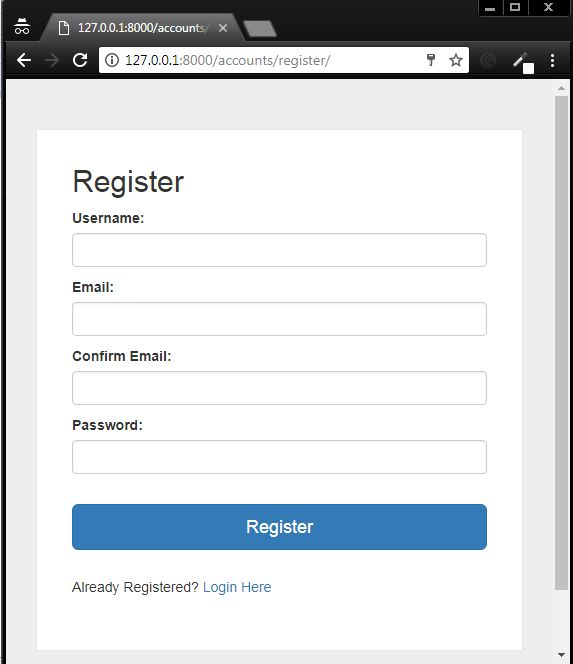
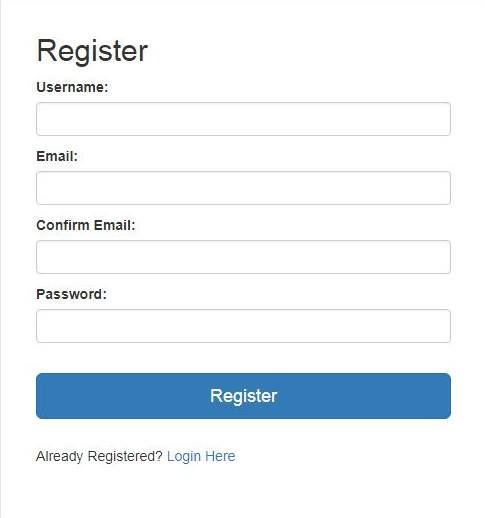
hr added

diff --git a/learn/set-up-authentication-system-in-django-in-just-10-minutes/index.html b/learn/set-up-authentication-system-in-django-in-just-10-minutes/index.html
@@ -95,9 +95,10 @@
     <div class = "col-md-9">
 <img class = "img-fluid" alt="" src="/img/set-up-authentication-system-in-django-in-just-10-minutes/cover.jpg" title="" srcset="/assets/resized/480/cover.jpg 480w,/assets/resized/800/cover.jpg 800w,/img/set-up-authentication-system-in-django-in-just-10-minutes/cover.jpg 1240w">
 
+	<br />
     <h1 class="post-title">Set-up Authentication System in Django in just 10 minutes</h1>
     <h6 class = "post-spans">Posted: 03 October 2017 | Post By: Jai Singhal | 1k <i class = "fa fa-eye"></i>  | <i class = "fa fa-clock"></i> 11 min read | 15 <i class = "fa fa-comment"></i> </h6>
-    <br />
+    <hr />
     <div class = "post-content"> <p>Authentication is something which needs to be implemented on each and every website. And with Django, it is very simple and easy to implement because we don’t need to make the Authentication system from scratch, it is already made by the Django, we need to simply use it.</p>
 
 <h2 id="introduction">Introduction</h2>
@@ -409,7 +410,7 @@ body {
 
 <p>If you have followed the exact tutorial, you will have this kind of output for Login Page</p>
 
-<p><img class="img-fluid" alt="" src="/img/set-up-authentication-system-in-django-in-just-10-minutes/login.jpg" title="" srcset="/assets/resized/480/login.jpg 480w,/img/set-up-authentication-system-in-django-in-just-10-minutes/login.jpg 573w" /></p>
+<p><img class="img-fluid" alt="" src="/img/set-up-authentication-system-in-django-in-just-10-minutes/login.jpg" title="" srcset="/assets/resized/480/login.jpg 480w,/img/set-up-authentication-system-in-django-in-just-10-minutes/login.jpg 503w" /></p>
 
 <h2 id="register">Register</h2>
 <p>After creating the Login View, let’s create the register view.</p>
@@ -513,7 +514,7 @@ body {
 <span class="p">]</span>
  </code></pre></figure>
 
-<p><img class="img-fluid" alt="" src="/img/set-up-authentication-system-in-django-in-just-10-minutes/register.jpg" title="" srcset="/assets/resized/480/register.jpg 480w,/img/set-up-authentication-system-in-django-in-just-10-minutes/register.jpg 573w" /></p>
+<p><img class="img-fluid" alt="" src="/img/set-up-authentication-system-in-django-in-just-10-minutes/register.jpg" title="" srcset="/assets/resized/480/register.jpg 480w,/img/set-up-authentication-system-in-django-in-just-10-minutes/register.jpg 485w" /></p>
 
 <h2 id="logout">Logout</h2>
 <p>Now let’s create our last view i.e., logout view. This is very simple view and very straightforward.</p>

diff --git a/how-to/pagination-with-django.html b/how-to/pagination-with-django.html
@@ -95,9 +95,10 @@
     <div class = "col-md-9">
 <img class = "img-fluid" alt="" src="/img/introduction-to-django/code-pc-sublime-img.jpg" title="" srcset="/assets/resized/480/code-pc-sublime-img.jpg 480w,/assets/resized/800/code-pc-sublime-img.jpg 800w,/img/introduction-to-django/code-pc-sublime-img.jpg 940w">
 
+	<br />
     <h1 class="post-title">Pagination with Django</h1>
     <h6 class = "post-spans">Posted: 31 May 2017 | Post By: Jai Singhal | 1k <i class = "fa fa-eye"></i>  | <i class = "fa fa-clock"></i> 8 min read | 15 <i class = "fa fa-comment"></i> </h6>
-    <br />
+    <hr />
     <div class = "post-content"> <p>You may have come across a problem of displaying many objects in a single page. Pagination allows you to divide the objects into discrete pages. It is very difficult to show up all the objects in a single page. For example, if you are running a blog website, when you want to list all the post, it is better to divide the posts into pages.</p>
 
 <p>Django provides a few classes that can help you to manage your paginated data i.e., data that are split across several pages, with “Previous/Next” links or list it into discrete page numbers. You can use the Django Pagination by including the class that lives in django/core/paginator.py</p>

diff --git a/jekyll-update/welcome-to-jekyll/index.html b/jekyll-update/welcome-to-jekyll/index.html
@@ -95,9 +95,10 @@
     <div class = "col-md-9">
 <img class = "img-fluid" alt="" src="/img/post1.jpg" title="" srcset="/assets/resized/480/post1.jpg 480w,/assets/resized/800/post1.jpg 800w,/assets/resized/1400/post1.jpg 1400w,/img/post1.jpg 1920w">
 
+	<br />
     <h1 class="post-title">Welcome to Jekyll!</h1>
     <h6 class = "post-spans">Posted: 01 February 2018 | Post By: Jai Singhal | 1k <i class = "fa fa-eye"></i>  | <i class = "fa fa-clock"></i> 2 min read | 15 <i class = "fa fa-comment"></i> </h6>
-    <br />
+    <hr />
     <div class = "post-content"> <p>You’ll find this post in your <code class="highlighter-rouge">_posts</code> directory. Go ahead and edit it and re-build the site to see your changes. You can rebuild the site in many different ways, but the most common way is to run <code class="highlighter-rouge">jekyll serve</code>, which launches a web server and auto-regenerates your site when a file is updated.</p>
 
 <p>To add new posts, simply add a file in the <code class="highlighter-rouge">_posts</code> directory that follows the convention <code class="highlighter-rouge">YYYY-MM-DD-name-of-post.ext</code> and includes the necessary front matter. Take a look at the source for this post to get an idea about how it works.</p>

diff --git a/learn/introduction-to-django/index.html b/learn/introduction-to-django/index.html
@@ -95,9 +95,10 @@
     <div class = "col-md-9">
 <img class = "img-fluid" alt="" src="/img/introduction-to-django/code-pc-sublime-img.jpg" title="" srcset="/assets/resized/480/code-pc-sublime-img.jpg 480w,/assets/resized/800/code-pc-sublime-img.jpg 800w,/img/introduction-to-django/code-pc-sublime-img.jpg 940w">
 
+	<br />
     <h1 class="post-title">Introduction to Django</h1>
     <h6 class = "post-spans">Posted: 08 May 2017 | Post By: Jai Singhal | 1k <i class = "fa fa-eye"></i>  | <i class = "fa fa-clock"></i> 5 min read | 15 <i class = "fa fa-comment"></i> </h6>
-    <br />
+    <hr />
     <div class = "post-content"> <p>Django (/ˈdʒæŋɡoʊ/ jang-goh) is a high-level Python Web Framework which is absolutely free and open source. Django encourages rapid development, clean and pragmatic design, it also emphasis on the principle of don’t repeat yourself, and reusability of code.</p>
 
 <p>Making your own website is an ambitious goal nowadays and one should choose a framework which is more robust, less time-consuming, secure website and Django serves the programmer to produce robust, secure and bug-free code quickly.</p>

diff --git a/package-of-week/categories-with-django-mptt/index.html b/package-of-week/categories-with-django-mptt/index.html
@@ -95,9 +95,10 @@
     <div class = "col-md-9">
 <img class = "img-fluid" alt="" src="/img/categories-with-django-mptt/cover.jpg" title="" srcset="/assets/resized/480/cover.jpg 480w,/assets/resized/800/cover.jpg 800w,/img/categories-with-django-mptt/cover.jpg 1240w">
 
+	<br />
     <h1 class="post-title">Categories with django-mptt</h1>
     <h6 class = "post-spans">Posted: 30 July 2017 | Post By: Karan Suthar | 1k <i class = "fa fa-eye"></i>  | <i class = "fa fa-clock"></i> 7 min read | 15 <i class = "fa fa-comment"></i> </h6>
-    <br />
+    <hr />
     <div class = "post-content"> <p>In this tutorial, we will learn how to implement categories and breadcrumb in a Django site. Categories may be related to each other as child-parent, so categories are hierarchical data and to store and access them efficiently mptt i.e modified preorder tree traversal should be used in which the number of database queries made is minimum. There are some referral links provided at the end of the article to understand how CRUD operations are applied on hierarchical data efficiently.</p>
 
 <h2 id="installation">Installation</h2>

diff --git a/learn/getting-started-with-django/index.html b/learn/getting-started-with-django/index.html
@@ -95,9 +95,10 @@
     <div class = "col-md-9">
 <img class = "img-fluid" alt="" src="/img/introduction-to-django/code-pc-sublime-img.jpg" title="" srcset="/assets/resized/480/code-pc-sublime-img.jpg 480w,/assets/resized/800/code-pc-sublime-img.jpg 800w,/img/introduction-to-django/code-pc-sublime-img.jpg 940w">
 
+	<br />
     <h1 class="post-title">Getting started with Django</h1>
     <h6 class = "post-spans">Posted: 20 May 2017 | Post By: Jai Singhal | 1k <i class = "fa fa-eye"></i>  | <i class = "fa fa-clock"></i> 4 min read | 15 <i class = "fa fa-comment"></i> </h6>
-    <br />
+    <hr />
     <div class = "post-content"> <p>After too much motivation, now it’s time to get started with Django. To develop your Django-powered site, you first need to install Python on your system. It is highly recommended to install the latest version of Python, and for those people who are using Python2, it is recommended to switch to Python3. You can easily download the latest version from here.</p>
 
 <p>If you are not familiar with Python, then you should need to brush up your basic knowledge of Python from here.</p>

diff --git a/how-to/reverse-engineering-of-the-django-admin-foreign-keys-addedit-button/index.html b/how-to/reverse-engineering-of-the-django-admin-foreign-keys-addedit-button/index.html
@@ -95,9 +95,10 @@
     <div class = "col-md-9">
 <img class = "img-fluid" alt="" src="/img/reverse-engineering-of-the-django-admin-foreign-keys-addedit-button/cover.jpg" title="" srcset="/assets/resized/480/cover.jpg 480w,/assets/resized/800/cover.jpg 800w,/img/reverse-engineering-of-the-django-admin-foreign-keys-addedit-button/cover.jpg 1240w">
 
+	<br />
     <h1 class="post-title">Reverse Engineering of the Django Admin Foreign Key's Add/Edit Button</h1>
     <h6 class = "post-spans">Posted: 07 July 2017 | Post By: Jai Singhal | 1k <i class = "fa fa-eye"></i>  | <i class = "fa fa-clock"></i> 7 min read | 15 <i class = "fa fa-comment"></i> </h6>
-    <br />
+    <hr />
     <div class = "post-content"> <h2 id="introduction">Introduction</h2>
 <p>In this tutorial, we will learn about how to add Django Admin’s Foreign key’s Add and Edit feature on Django form, so that we can easily add and edit the Foreign Key element in a pop-up window without refreshing the same page. This can be done with the help of AJAX.</p>
 

diff --git a/css/custom.css b/css/custom.css
@@ -297,8 +297,8 @@ body {
 
 
 .post-info{color:#aaa;letter-spacing:0.5px;text-align:center}.post-info span{font-style:italic}
-.post-title{color:#353535;font-size:2.5rem;margin:0.75rem 0; font-weight: 580;}
-.post-spans{color:#999; padding-left:0.25rem; font-size:0.93rem; font-weight: 450;}
+.post-title{color:#353535;font-size:2.5rem;margin:0.75rem 0; font-weight: 600; text-align: center;}
+.post-spans{color:#999; padding-left:0.25rem; font-size:0.94rem; font-weight: 450;  text-align: center;}
 .post-line{border-top:0.4rem solid #353535;display:block;margin:0 auto 3rem;width:4rem}
 .post-linex{border-top:0.4rem solid #353535;display:block;width:4rem}
 .post p{margin:0 0 1rem;}.post a:hover{text-decoration:underline}.post img{margin:0 auto 0.5rem}.post img+em{color:#aaa;display:block;font-size:0.9rem;font-style:normal;text-align:center}
